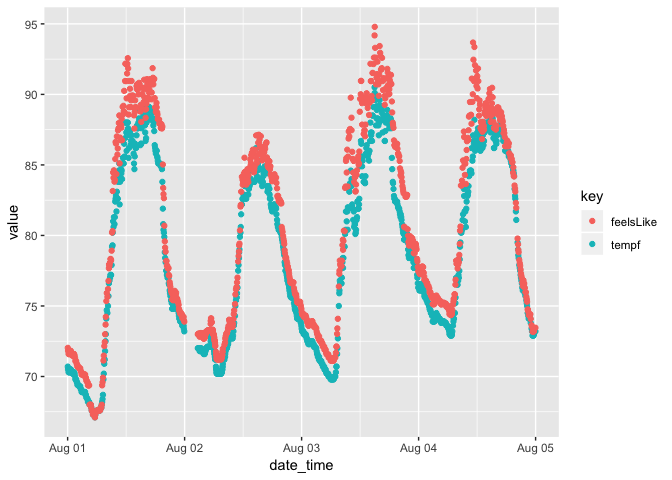
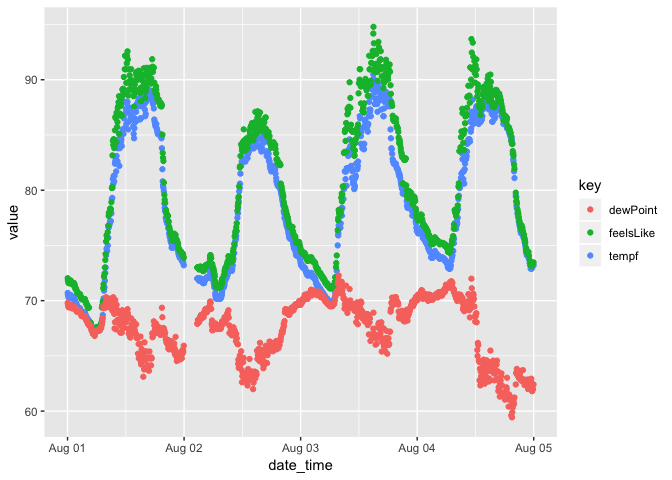
Updates per "Best practices for API packages"

diff --git a/README.md b/README.md
@@ -28,18 +28,18 @@ library(tidyverse)
 ```
 
 ``` r
-mac_address <- list_user_devices() %>% pluck("macAddress")
+mac_address <- list_user_devices() %>% flatten() %>% pluck("macAddress")
 ```
 
 ``` r
 df <- seq.Date(as.Date("2019-08-01"), as.Date("2019-08-04"), "day") %>% 
   map(as.character) %>% 
-  map_df(~ fetch_device_data(mac_address, .x))
+  map_df(~ fetch_device_data(mac_address, .x)$content)
 ```
 
 ``` r
 df %>% 
-  select(date_time, tempf, feelsLike) %>% 
+  select(date_time, tempf, feelsLike, dewPoint) %>% 
   gather(key = "key", value = "value", -date_time) %>% 
   ggplot(aes(x = date_time, y = value, colour = key)) + 
   geom_point()
